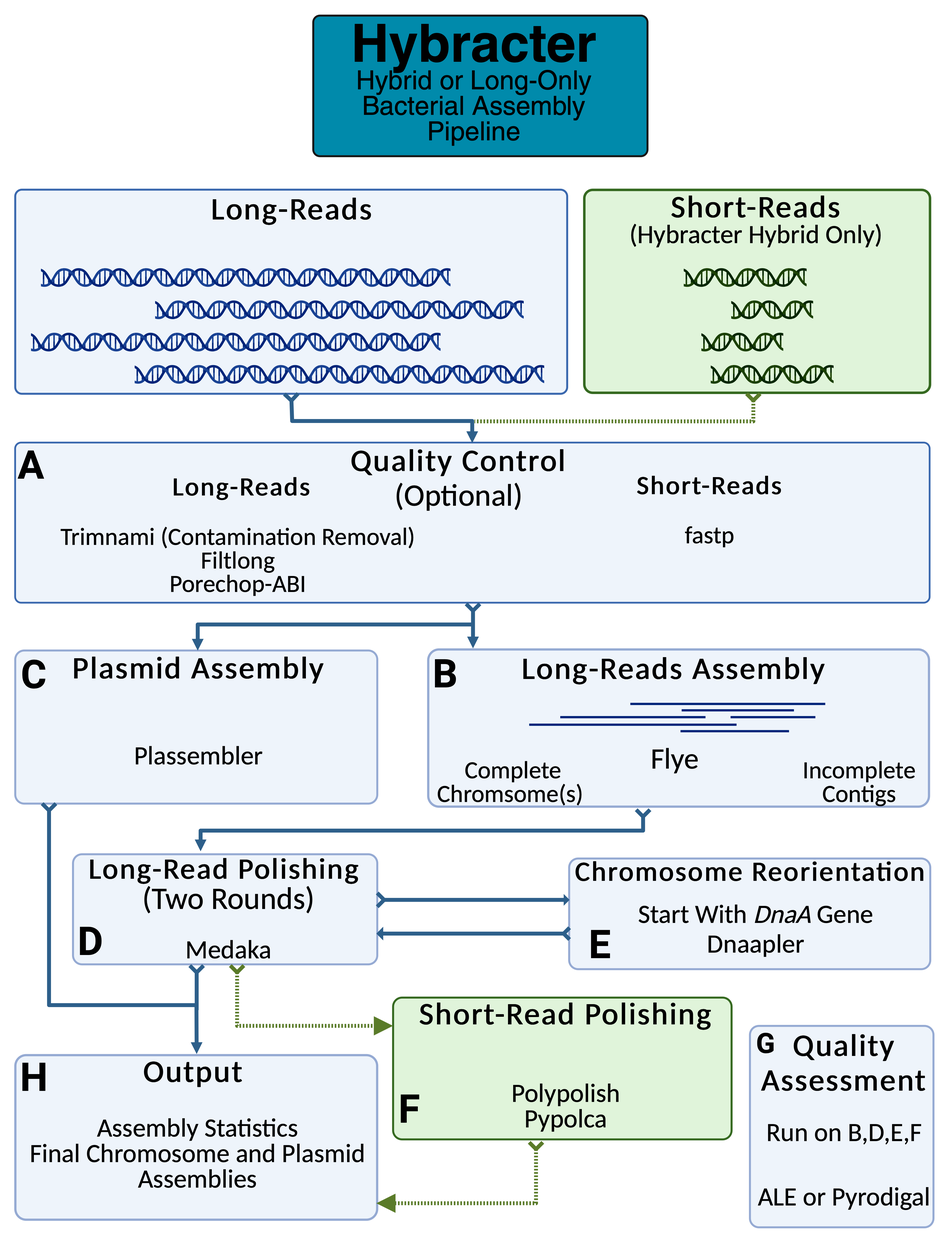
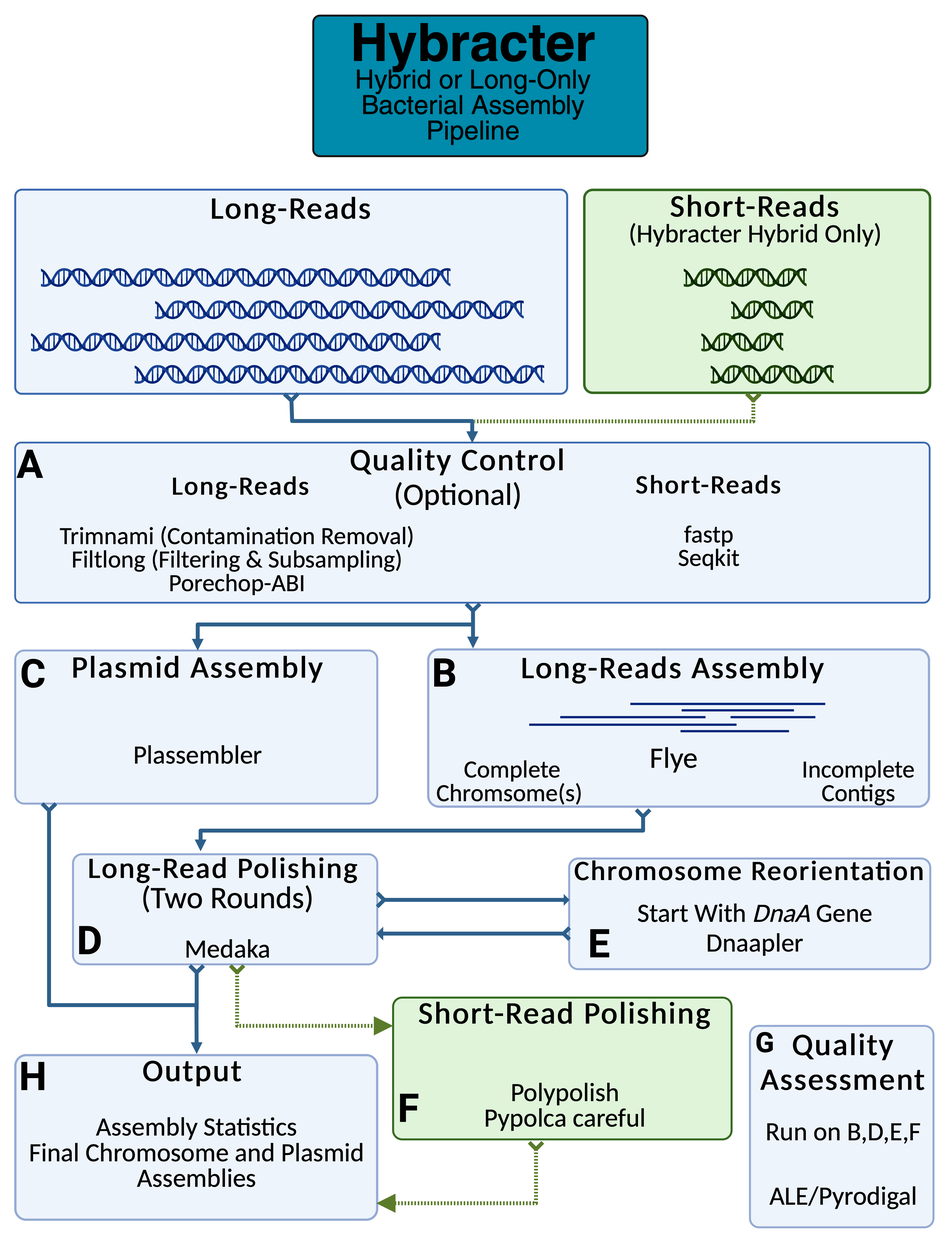
update docs [skip ci]

diff --git a/docs/benchmarking.md b/docs/benchmarking.md
@@ -2,9 +2,9 @@
 
 ## Summary of Main Results
 
-* `hybracter` assembled the most accurate chromosomes overall, particularly in terms of insertions and deletions (Dragonflye hybrid was second, Unicycler was the worst). For long reads only, `hybracter` was superior to dragonflye long.
-* `hybracter hybrid` was the best tool at recovering plasmids, recovering 57/59 possibly plasmids completely, while Unicycler recovered 54/59. Accuracy for both was similar. Dragonflye hybrid recovered only 34/59. 
-* `hybracter long` recovered 54/59 plasmids from only long read data, comparable to the hybrid methods. Dragonflye recovered only 35/59 plasmids. 
+* `hybracter hybrid` assembled the most accurate chromosomes overall, particularly in terms of insertions and deletions (Dragonflye hybrid was second, Unicycler was the worst). For long reads only, `hybracter long` was superior to dragonflye long.
+* `hybracter hybrid` was the best tool at recovering plasmids, recovering 65/69 possibly plasmids completely, while Unicycler recovered 60/69. Accuracy for both was similar. Dragonflye hybrid recovered only 44/69. 
+* `hybracter long` recovered 60/69 plasmids from only long read data, comparable to the hybrid methods. Dragonflye recovered only 44/69 plasmids. 
 
 ## Recommendations
 
@@ -18,44 +18,45 @@
 
 For the full details on how `hybracter` was benchmarked, please see the [repository](https://github.com/gbouras13/hybracter_benchmarking). You can find all the benchmarking output and FASTQ files used [here](https://doi.org/10.5281/zenodo.10158013).
 
-`Hybracter` was benchmarked in both hybrid and long modes (specifically using the `hybrid-single` and `long-single` commands) against [Unicycler](https://github.com/rrwick/Unicycler) v0.5.0 and [Dragonflye](https://github.com/rpetit3/dragonflye) v1.1.2.
+`Hybracter` v0.7.0 was benchmarked in both hybrid and long modes (specifically using the `hybrid-single` and `long-single` commands) against [Unicycler](https://github.com/rrwick/Unicycler) v0.5.0 and [Dragonflye](https://github.com/rpetit3/dragonflye) v1.1.2.
 
 For Dragonflye, both 'long' (default assembly with Flye, default polishing with Racon) and 'hybrid' (default assembly with Flye, default polishing with Racon followed by Polypolish ) were tested.
 
-`Hybracter` was benchmarked on a panel of 20 isolates form 4 studies with accompanying reference genomes.
+`Hybracter` was benchmarked on a panel of 30 isolates from 5 studies with accompanying reference genomes.
 
-These samples contain varying levels of long-read quality (reflecting improvements in Oxford Nanopore Technologies long read technology), with the median Q score of long read sets ranging from a minimum of 12.3 to maximum of 18.3. The four studies are:
+These samples contain varying levels of long-read quality (reflecting improvements in Oxford Nanopore Technologies long read technology), with the median Q score of long read sets ranging from a minimum of 10.6 to maximum of 26.8. The four studies are:
 
-1.	Five ATCC strain isolates (ATCC-10708 Salmonella enterica, ATCC-17802 Vibrio paragaemolyticus, ATCC-25922 Escherichia coli, ATCC-33560 Campylobacter jejuni and ATCC-BAA-679 Listeria monocytogenes ) sequenced by Louise Judd from Ryan Wick's [blogpost](https://rrwick.github.io/2023/05/05/ont-only-accuracy-with-r10.4.1.html).
-2.	Twelve diverse carbapenemase-producing Gram negative bacteria from [Lerminiaux et al](https://www.biorxiv.org/content/10.1101/2023.09.25.559359v1 ).
-3.	Staphylococcus aureus JKD6159 with both R9 and R10 chemistry long read sets from [Wick et al](https://doi.org/10.1128/mra.01129-22).
-4.	Mycobacterium tuberculosis HR37v from [Chitale et al](https://www.nature.com/articles/s41467-022-34853-x).
+1.	Five ATCC strain isolates (ATCC-10708 _Salmonella enterica_, ATCC-17802 _Vibrio paragaemolyticus_, ATCC-25922 _Escherichia coli_, ATCC-33560 _Campylobacter jejuni_ and ATCC-BAA-679 _Listeria monocytogenes_ ) with R10 chemistry super-accuracy model basecalled simplex long-reads sequenced by Louise Judd from Ryan Wick's [blogpost](https://rrwick.github.io/2023/05/05/ont-only-accuracy-with-r10.4.1.html) and made available as a part of the Hybracter preprint.
+2.	The same 5 ATCC isolates with R10 chemistry fast model basecalled long-reads, and R10 chemistry super-accuracy model basecalled duplex long-reads from [Hall et al](https://www.biorxiv.org/content/10.1101/2024.03.15.585313v2).
+3.	Twelve diverse carbapenemase-producing Gram negative bacteria from [Lerminiaux et al](https://doi.org/10.1139/cjm-2023-0175).
+4.	Staphylococcus aureus JKD6159 with both R9 and R10 chemistry long read sets from [Wick et al](https://doi.org/10.1128/mra.01129-22).
+5.	Mycobacterium tuberculosis HR37v from [Chitale et al](https://www.nature.com/articles/s41467-022-34853-x).
 
 ## Wallclock Time Results
 
-To compare the performance of Hybracter, we compared wall-clock runtime consumption on a machine with an Intel® Core™ i7-10700K CPU @ 3.80 GHz on a machine running Ubuntu 20.04.6 LTS with a total of 16 available threads (8 cores). We ran all tools with 8 and 16 threads to reflect performance and runtimes that are comparable to commonly available consumer hardware, with a cap at 32GB of RAM requested for each job. Hybracter hybrid and long were run with ‘hybracter hybrid-single’ and ‘hybracter long-single’ for each isolate in order to generate a comparable per sample runtime for comparison with the other tools. 
+To compare the performance of Hybracter, we compared wall-clock runtime consumption on a machine with an Intel® Core™ i9-13900K CPU @ 5.60 GHz on a machine running Ubuntu 20.04.6 LTS with a total of 32 available threads (24 cores). We ran all tools with 8 and 16 threads to reflect performance and runtimes that are comparable to commonly available consumer hardware, with a cap at 32GB of RAM requested for each job. Hybracter hybrid and long were run with ‘hybracter hybrid-single’ and ‘hybracter long-single’ for each isolate in order to generate a comparable per sample runtime for comparison with the other tools. 
 
 | **Tool**              | **Type** | **8 Threads**                                                           | **16 Threads**                                                          |
 | --------------------- | -------- | ----------------------------------------------------------------------- | ----------------------------------------------------------------------- |
-| **Hybracter hybrid**  | Hybrid   | Median = 00h:54m:23s Min = 00h:14m:22s Max = 02h:01m:37s | Median = 00h:40m:19s Min = 00h:12m:43s Max = 01h:21m:05s      |
-| **Dragonflye hybrid** | Hybrid   | Median = 00h:10m:55s Min = 00h:04m:02s Max = 00h:13m:34s      | Median = 00h:07m:21s Min = 00h:03m:33s Max = 00h:09m:28s      |
-| **Unicycler**         | Hybrid   | Median = 02h:03m:02s Min =  00h:39m:09s Max = 02h:48m:16s     | Median = 01h:06m:8s Min = 00h:21m:38s Max = 01h:30m:38s       |
-| **Hybracter long**    | Long     | Median = 00h:45m:29s Min = 00h:10m:52s Max = 01h:23m:49s | Median = 00h:34m:56s Min = 00h:09m:49s Max = 00h:59m:21s |
-| **Dragonflye long**   | Long     | Median = 00h:09m:24s Min = 00h:03m:52s Max = 00h:13m:32s      | Median = 00h:07m:00s Min = 00h:03m:22s Max = 00h:08m:56s |
+| **Hybracter hybrid**  | Hybrid   | Median = 00h:15m:03s Min = 00h:04m:29s Max = 00h:54m:41s | Median = 00h:13m:44s Min = 00h:03m:27s Max = 00h:44m:36s      |
+| **Dragonflye hybrid** | Hybrid   | Median = 00h:04m:34s Min = 00h:01m:32s Max = 00h:07m:27s      | Median = 00h:03m:46s Min = 00h:01m:22s Max = 00h:06m:01s      |
+| **Unicycler**         | Hybrid   | Median = 00h:50m:25s Min =  00h:12m:04s Max = 01h:13m:32s     | Median = 00h:34m:20s Min = 00h:08m:36s Max = 00h:48m:23s       |
+| **Hybracter long**    | Long     | Median = 00h:11m:46s Min = 00h:03m:26s Max = 00h:36m:09s | Median = 00h:10m:20s Min = 00h:03m:17s Max = 00h:29m:50s |
+| **Dragonflye long**   | Long     | Median = 00h:04m:10s Min = 00h:01m:22s Max = 00h:06m:01s      | Median = 00h:04m:34s Min = 00h:01m:32s Max = 00h:07m:27s |
 
 ## Chromosome Accuracy Results
 
-The chromosome assemblies for all samples were complete and circularised, and were compared against the reference with [Dnadiff](https://github.com/marbl/MUMmer3/blob/master/docs/dnadiff.README) v1.3. Small (<60bp) insertions and deletions (indels), small nucleotide variants (SNVs) and large (>60bps) were compared. SNVs and small indels were normalised per 100kbp of reference sequence.
+The chromosome assemblies for all samples were complete and circularised, and were compared against the reference with [Dnadiff](https://github.com/marbl/MUMmer3/blob/master/docs/dnadiff.README) v1.3. Small (<60bp) insertions and deletions (indels), small nucleotide variants (SNVs) and large (>60bps) were compared. 
 
 The summary results are presented below:
 
-| **Tool**              | **Type** | **Small Indels per 100kbp**                         | **SNVs per 100kbp**                                 | **Small Indels + SNVs per 100kbp**               | **Large Indels**                                           |
+| **Tool**              | **Type** | **Small Indels**                         | **SNVs**                                 | **Small Indels + SNVs**               | **Large Indels**                                           |
 | --------------------- | -------- | --------------------------------------------------- | --------------------------------------------------- | ------------------------------------------------ | ---------------------------------------------------------- |
-| **Hybracter hybrid**  | Hybrid   | Median = 0.05 Min = 0 Max = 12.34    | Median = 0.16 Min = 0 Max = 3.52        | Median = 0.24 Min = 0 Max = 15.79 | Total = 59 Median = 0 Min = 0 Max = 26 |
-| **Dragonflye hybrid** | Hybrid   | Median = 0.49 Min = 0 Max = 11.56   | Median = 0.03  Min = 0  Max = 2.21    | Median = 0.74  Min = 0  Max = 13.41     | Total = 91 Median = 1.5 Min = 1  Max = 29      |
-| **Unicycler**         | Hybrid   | Median = 0.28 Min = 0  Max = 9.5      | Median = 1.25 Min = 0.25 Max = 4.13       | Median = 1.49 Min = 0.43 Max = 13.62   | Total = 134 Median = 2.5  Min = 0  Max = 41     |
-| **Hybracter long**    | Long     | Median = 0.49 Min = 0.06 Max = 24.82 | Median = 1.07 Min = 0.07 Max = 10.46 | Median = 2.08 Min = 0.37 Max = 35.29   | Total = 66 Median = 1  Min = 0  Max = 27        |
-| **Dragonflye long**   | Long     | Median = 3.01 Min = 1.61 Max = 43.8       | Median = 0.99 Min = 0.33 Max = 10.86 | Median = 3.81 Min = 2.01 Max = 53.1    | Total = 92 Median = 2 Min = 1 Max = 30    |
+| **Hybracter hybrid**  | Hybrid   | Median = 0 Min = 0 Max = 41    | Median = 0 Min = 0 Max = 26        | Median = 1 Min = 0 Max = 67 | Total = 9 Median = 0 Min = 0 Max = 2 |
+| **Dragonflye hybrid** | Hybrid   | Median = 2.5 Min = 0 Max = 112   | Median = 0 Min = 0  Max = 64    | Median = 4.5  Min = 0  Max = 154     | Total = 70 Median = 2 Min = 0  Max = 12      |
+| **Unicycler**         | Hybrid   | Median = 11 Min = 0  Max = 125      | Median = 34 Min = 0 Max = 165       | Median = 57.5 Min = 3 Max = 290   | Total = 87 Median = 1  Min = 0  Max = 16     |
+| **Hybracter long**    | Long     | Median = 16 Min = 1 Max = 743 | Median = 21.5 Min = 0 Max = 156 | Median = 54 Min = 1 Max = 852   | Total = 11 Median = 1  Min = 0  Max = 3        |
+| **Dragonflye long**   | Long     | Median = 125 Min = 2 Max = 4814       | Median = 34.5 Min = 0 Max = 2172 | Median = 170.5 Min = 2 Max = 6332    | Total = 68 Median = 2 Min = 0 Max = 12    |
 
 
 ## Plasmid Recovery Results
@@ -71,11 +72,11 @@ The summary results are presented below:
 
 | **Tool**              | **Complete Plasmids Recovered** | **Total Plasmids Partially Recovered or Misassembled** | **Total Plasmids Missed** | **Additional Plasmids Recovered not in Reference** | **Additional Non-Plasmid Contigs Recovered** |
 | --------------------- | ------------------------------- | ------------------------------------------------------ | ------------------------- | -------------------------------------------------- | -------------------------------------------- |
-| **Hybracter hybrid**  | 57                              | 2                                                      | 0                         | 2                                                  | 6                                            |
-| **Unicycler**         | 54                              | 2                                                      | 3                         | 1                                                  | 1                                            |
-| **Dragonflye hybrid** | 34                              | 16                                                     | 9                         | 1                                                  | 7                                            |
-| **Hybracter long**    | 54                              | 3                                                      | 2                         | 2                                                  | 3                                            |
-| **Dragonflye long**   | 35                              | 16                                                     | 8                         | 1                                                  | 5                                            |
+| **Hybracter hybrid**  | 65                              | 4                                                      | 0                         | 2                                                  | 10                                            |
+| **Unicycler**         | 60                              | 6                                                      | 3                         | 1                                                  | 2                                            |
+| **Dragonflye hybrid** | 44                              | 16                                                     | 9                         | 1                                                  | 10                                            |
+| **Hybracter long**    | 60                              | 5                                                      | 4                         | 2                                                  | 3                                            |
+| **Dragonflye long**   | 44                              | 16                                                     | 9                         | 1                                                  | 10                                            |
 
 ## Plasmid Accuracy Results
 
@@ -83,8 +84,8 @@ The plasmids assemblies for all samples were complete and circularised, and were
 
 | Tool              | Type   | Min SNVs per 100kbp | Median SNVs per 100kbp | Max SNVs per 100kbp | Min Small Indels per 100kbp | Median Small Indels per 100kbp | Max Small Indels per 100kbp | Min SNVs + Small Indels per 100kbp | Median SNVs + Small Indels per 100kbp | Max SNVs + Small Indels per 100kbp | Min  Large Indels | Median  Large Indels | Max  Large Indels | Total Large Indels |
 | ----------------- | ------ | ----------------------- | ---------------------- | ----------------------- | ------------------------------- | ------------------------------ | ------------------------------- | -------------------------------------- | ------------------------------------- | -------------------------------------- | --------------------- | -------------------- | --------------------- | ------------------ |
-| dragonflye_hybrid | hybrid | 0                       | 0                      | 9                       | 0                               | 0                              | 21.82                           | 0                                      | 0                                     | 21.82                                  | 1                     | 7.5                  | 16                    | 129                |
-| dragonflye_long   | long   | 0                       | 1.38                   | 12.86                   | 1.3                             | 7.65                           | 33.77                           | 2.6                                    | 9.215                                 | 33.77                                  | 2                     | 6.5                  | 16                    | 123                |
-| hybracter_hybrid  | hybrid | 0                       | 3.1                    | 46.19                   | 0                               | 0                              | 30.25                           | 0                                      | 4.15                                  | 47.34                                  | 0                     | 2                    | 9                     | 39                 |
-| hybracter_long    | long   | 0                       | 4.635                  | 58.08                   | 0                               | 2.22                           | 125.42                          | 0                                      | 10.635                                | 130.25                                 | 0                     | 2                    | 7                     | 32                 |
-| unicycler         | hybrid | 0                       | 2.405                  | 10.99                   | 0                               | 0                              | 3.45                            | 0                                      | 3.83                                  | 11.28                                  | 0                     | 2                    | 16                    | 51                 |
+| dragonflye_hybrid | hybrid | 0                       | 0                      | 0.7                       | 0                               | 0                              | 31.75                           | 0                                      | 0.255                                     | 31.75                                  | 1                     | 5.5                  | 18                    | 116                |
+| dragonflye_long   | long   | 0                       | 1.285                   | 55.29                   | 0                             | 6.255                           | 129.07                           | 0                                    | 7.655                                 | 167.17                                  | 1                     | 5.5                  | 18                    | 116                |
+| hybracter_hybrid  | hybrid | 0                       | 0.255                    | 46.19                   | 0                               | 0                              | 16.19                           | 0                                      | 1.62                                  | 47.34                                  | 0                     | 2                    | 9                     | 44                 |
+| hybracter_long    | long   | 0                       | 4.47                  | 57.87                   | 0                               | 2.995                           | 189.57                          | 0                                      | 8.735                                | 227.89                                 | 0                     | 1                    | 27                     | 59                 |
+| unicycler         | hybrid | 0                       | 0.855                  | 10.99                   | 0                               | 0                              | 3.45                            | 0                                      | 2.02                                  | 11.28                                  | 0                     | 2                    | 16                    | 63                 |

diff --git a/docs/output.md b/docs/output.md
@@ -1,0 +1,137 @@
+`hybracter` creates a number of output files in different formats.
+
+# Main Output
+
+The main outputs are in the `FINAL_OUTPUT` directory.
+
+This directory will include:
+
+## Summary File
+
+1. `hybracter_summary.tsv` file. This gives the summary statistics for your assemblies with the following columns:
+
+|Sample |Complete (True or False) | Total_assembly_length |	Number_of_contigs |	Most_accurate_polishing_round |	Longest_contig_length | Longest_contig_coverage|	Number_circular_plasmids |
+|--------|-----------------------|-------------------------|-------------------|--------|--|--|--|
+
+
+## Summary Assemblies
+
+2. The `complete` and `incomplete` directories will contain the summary assemblies for all samples.
+
+All samples that are denoted by hybracter to be complete will have 5 outputs in the `complete` directory:
+
+   * `sample`_summary.tsv containing the summary statistics for that sample.
+   * `sample`_per_contig_stats.tsv containing the contig names, lengths, GC% and whether the contig is circular.
+   * `sample`_final.fasta containing the final assembly for that sample.
+   * `sample`_chromosome.fasta containing only the final chromosome(s) assembly for that sample.
+   * `sample`_plasmid.fasta containing only the final plasmid(s) assembly for that sample. Note this may be empty. If this is empty, then that sample had no plasmids. 
+       * **Note** - there may be a number of non-circular "plasmid" contigs. Be careful assuming these are truly plasmids and check the plassmbler output in `supplementary_results`. These may be assembly artefacts that should be excluded, or indicate that your long- and short-read sets aren't well matched!
+
+All samples that are denoted by hybracter to be incomplete will have 3 outputs in the `incomplete` directory:
+
+   * `sample`_summary.tsv containing the summary statistics for that sample.
+   * `sample`_per_contig_stats.tsv containing the contig names, lengths, GC% and whether the contig is circular.
+   * `sample`_final.fasta containing the final assembly for that sample.
+
+# Other Outputs
+
+## `supplementary_results` directory
+
+The `supplementary_results` directory contains a number of supplementary results that you might find useful:
+
+##### 1. `comparisons` directory
+
+* This directory contains visual representations comparing the effect of each polishing round for each sample using a modified version of Ryan Wick's [compare_assemblies.py script](https://github.com/rrwick/Perfect-bacterial-genome-tutorial/blob/main/scripts/compare_assemblies.py). An example is below 
+
+```
+    contig_1 37368-37398: ACCATTTTTGTTTTATTTTTTGTAAAGACAC
+    contig_1 37368-37397: ACCATTTTTGTTTTA-TTTTTGTAAAGACAC
+                                         *              
+
+    contig_1 43247-43277: CAACGTTGTTTTCCCTGAGCCTAAATAACCA
+    contig_1 43246-43276: CAACGTTGTTTTCCCCGAGCCTAAATAACCA
+                                         *              
+
+    contig_1 44658-44688: CTTGATCTTTATCTATGATTTCATTAATACT
+    contig_1 44657-44687: CTTGATCTTTATCTACGATTTCATTAATACT
+                                         *              
+```
+
+* If this file is empty, there are no differences between assemblies
+
+##### 2. `intermediate_chromosome_assemblies` directory
+
+* This directory contains intermediate chromosome assemblies for all polishing rounds for each sample.
+
+##### 3. `flye_individual_summaries` directory
+
+* This directory contains individual sample summaries from Flye for all samples.
+
+##### 4. `plassembler_individual_summaries` directory
+
+* This directory contains individual sample summaries from Plassembler for each sample.
+
+##### 5. `plassembler_all_assembly_summary` directory
+
+* This directory contains individual sample summaries from Plassembler for all samples.
+
+##### 6. `pyrodigal_mean_length_summaries` directory
+
+*  For `long`, this directory contains pyrodigal mean CDS length summary files for each polishing round for each sample.
+
+##### 7. `pyrodigal_mean_length_summaries_plassembler` directory
+
+*  For `long`, this directory contains pyrodigal mean CDS length summary files for each polishing round for each sample for the plassembler assembled plasmids.
+
+## `processing` directory
+
+The `processing` directory will contain a number of intermediate directories whose information you might find useful:
+
+##### 1. `flye` directory
+
+* This directory will contain the Flye assembly output and associated intermediate files for each sample
+
+##### 2. `qc` directory
+
+ This directory will contain the filtered, trimmed and contaminant removed FASTQ reads (where applicable) for each sample
+
+##### 3. `plassembler` directory
+
+* This directory will contain the Plassembler assembly output and associated intermediate files for each sample
+
+##### 4. `chrom_pre_polish` directory
+
+  * This directory will contain the pre-polished chromosome assemblies for complete isolates
+
+##### 5. `complete` and `incomplete` directories
+
+  * These directories will contain the medaka, polypolish and pypolca polishing and dnaapler reorientation intermediate files for each sample
+
+##### 6. `ale_out_files` directory
+
+  * For `hybrid`, this directory will intermediate ALE files for each assembly polishing round internal to `hybracter` (so can be ignored).
+
+##### 7. `ale_scores_complete` and `ale_scores_incomplete`  directories
+
+  *  These directories will containin ALE scores for each assembly polishing round.
+
+## `stderr` directory
+
+* This will contain log files for each program in `hybracter`.
+
+## `versions` directory
+
+* This will contain the specific versions used for each program in `hybracter`.
+
+## `flags` directory
+
+* This will contain flag files internal to `hybracter` (so can be ignored).
+
+## `completeness` directory
+
+* This will contain flag files internal to determine completeness internal to `hybracter` (so can be ignored).
+
+## `benchmarks` directory
+
+* This will contain benchmarking time and memory usage statistics for each program in hybracter.
+

diff --git a/docs/index.md b/docs/index.md
@@ -13,12 +13,12 @@ It scales massively using the embarassingly parallel power of HPC and Snakemake 
 
 ![Image](hybracter.png)
 
-- A. Reads are quality controlled with [Filtlong](https://github.com/rrwick/Filtlong), [Porechop](https://github.com/rrwick/Porechop), [fastp](https://github.com/OpenGene/fastp) and optionally contaminant removal using modules from [trimnami](https://github.com/beardymcjohnface/Trimnami).
+- A. Reads are quality controlled and subsampled with [Filtlong](https://github.com/rrwick/Filtlong), [Porechop](https://github.com/rrwick/Porechop), [fastp](https://github.com/OpenGene/fastp), [Seqkit](https://github.com/shenwei356/seqkit) and optionally contaminant removal using modules from [trimnami](https://github.com/beardymcjohnface/Trimnami).
 - B. Long-read assembly is conducted with [Flye](https://github.com/fenderglass/Flye). Each sample is clssified if the chromosome(s) were assembled (marked as 'complete') or not (marked as 'incomplete') based on the given minimum chromosome length.
 - C. For complete isolates, plasmid recovery with [Plassembler](https://github.com/gbouras13/plassembler).
 - D. For all isolates, long read polishing with [Medaka](https://github.com/nanoporetech/medaka).
-- E. For complete isolates, the chromosome is reorientated to begin with the dnaA gene with [dnaapler](https://github.com/gbouras13/dnaapler).
-- F. For all isolates, if short reads are provided, short read polishing with [Polypolish](https://github.com/rrwick/Polypolish) and [pypolca](https://github.com/gbouras13/pypolca).
+- E. For complete isolates, circularised chromosome(s) are reorientated to begin with the dnaA gene with [dnaapler](https://github.com/gbouras13/dnaapler).
+- F. For all isolates, if short reads are provided, short-read polishing with [Polypolish](https://github.com/rrwick/Polypolish) and [Pypolca](https://github.com/gbouras13/pypolca) depending on [short-read depth](https://www.biorxiv.org/content/10.1101/2024.03.07.584013v1).
 - G. For all isolates, assessment of all assemblies with [ALE](https://github.com/sc932/ALE) for `hybracter hybrid` or [Pyrodigal](https://github.com/althonos/pyrodigal) for `hybracter long`.
-- H. The best assembly is selected and and output along with final assembly statistics.
+- H. The best assembly is selected (the last is taken for `hybracter hybrid`) and output along with final assembly statistics.
 

diff --git a/docs/run.md b/docs/run.md
@@ -34,9 +34,10 @@ hybracter hybrid -i <input.csv> -o <output_dir> -t <threads>  [other arguments]
 * `--skip_qc` will skip all read QC steps.
 * You can change the `--medakaModel` (all available options are listed in `hybracter hybrid -h`)
 * You can change the `--flyeModel` (all available options are listed in `hybracter hybrid -h`)
-* You can turn off Medaka polishing using `--no_medaka`
-* You can turn off pypolca polishing using `--no_pypolca`
-* By default, `hybracter hybrid` takes the last polishing round as the final assembly  (`--logic last`). We would recommend never changing this, as picking the best polishing round according to ALE with  `--logic best` is not guaranteed to give the most accurate assembly.
+* You can turn off Medaka polishing using `--no_medaka` - recommended for Q20+ modern Nanopore reads
+* You can turn off pypolca polishing using `--no_pypolca` - I wouldn't though!
+* You can change the `--depth_filter` from 0.25x chromosome coverage. This will filter out all Plassembler contigs below this depth.
+* By default, `hybracter hybrid` takes the last polishing round as the final assembly  (`--logic last`). We would not recommend changing this to `--logic best`, as picking the best polishing round according to ALE with  `--logic best` is not guaranteed to give the most accurate assembly (See our [preprint](https://www.biorxiv.org/content/10.1101/2024.03.07.584013v1)).
 
 ```bash
 
@@ -201,8 +202,11 @@ hybracter long -i <input.csv> -o <output_dir> -t <threads> [other arguments]
 * `--skip_qc` will skip all read QC steps.
 * You can change the `--medakaModel` (all available options are listed in `hybracter long -h`)
 * You can change the `--flyeModel` (all available options are listed in `hybracter long -h`)
-* You can turn off Medaka polishing using `--no_medaka`
+* You can turn off Medaka polishing using `--no_medaka` - recommended for Q20+ modern Nanopore and PacBio reads
+* You can change the `--depth_filter` from 0.25x chromosome coverage. This will filter out all Plassembler contigs below this depth.
 * You can force `hybracter long` to pick the last polishing round (not the best according to pyrodigal mean CDS length) with `--logic last`. `hybracter long` defaults to picking the best i.e. `--logic best`.
+
+
 
 ```bash
 Usage: hybracter long [OPTIONS] [SNAKE_ARGS]...

diff --git a/README.md b/README.md
@@ -17,6 +17,8 @@
 - [Hybracter: Enabling Scalable, Automated, Complete and Accurate Bacterial Genome Assemblies](#hybracter-enabling-scalable-automated-complete-and-accurate-bacterial-genome-assemblies)
   - [Table of Contents](#table-of-contents)
   - [Quick Start](#quick-start)
+    - [Mamba/Conda](#mambaconda)
+    - [Container](#container)
   - [Description](#description)
   - [Pipeline](#pipeline)
   - [Benchmarking](#benchmarking)
@@ -56,6 +58,8 @@
 
 ## Quick Start
 
+### Mamba/Conda
+
 `hybracter` is available to install with `pip` or `conda`.
 
 You will need conda or mamba available so `hybracter` can install all the required dependencies. 
@@ -78,6 +82,27 @@ If you intend to run hybracter offline (e.g. on HPC nodes with no access to the 
 ```
 hybracter test-hybrid --threads 8
 hybracter test-long --threads 8
+```
+
+### Container
+
+Alternatively, a Docker/Singularity Linux container image is available for Hybracter (starting from v0.7.1) [here](https://quay.io/repository/gbouras13/hybracter). This will likely be useful for running Hybracter in HPC environments.
+
+* **Note** the container image comes with the database and all environments installed - there is no need to run `hybracter install` or `hybracter test-hybrid`/`hybracter test-long` or to specify a database directory with `-d`.
+
+To install and run v0.7.1 with singularity
+
+```bash
+
+IMAGE_DIR="<the directory you want the .sif file to be in >"
+singularity pull --dir $IMAGE_DIR docker://quay.io/gbouras/hybracter:0.7.1
+
+containerImage="$IMAGE_DIR/hybracter_0.7.1.sif"
+
+# example command with test fastqs
+ singularity exec $containerImage    hybracter hybrid-single -l test_data/Fastqs/test_long_reads.fastq.gz \
+ -1 test_data/Fastqs/test_short_reads_R1.fastq.gz  -2 test_data/Fastqs/test_short_reads_R2.fastq.gz \
+ -o output_test_singularity -t 4 -c 50000
 ```
 
 ## Description

diff --git a/docs/install.md b/docs/install.md
@@ -41,6 +41,27 @@ pip install -e .
 hybracter --help
 ```
 
+## Docker/Singularity
+
+A Docker/Singularity Linux container image is available for Hybracter (starting from v0.7.1) [here](https://quay.io/repository/gbouras13/hybracter). This will likely be useful for running Hybracter in HPC environments.
+
+* **Note** the container image comes with the database and all environments installed - there is no need to run `hybracter install` or `hybracter test-hybrid`/`hybracter test-long` or to specify a database directory with `-d`.
+
+To install and run v0.7.1 with singularity
+
+```bash
+
+IMAGE_DIR="<the directory you want the .sif file to be in >"
+singularity pull --dir $IMAGE_DIR docker://quay.io/gbouras/hybracter:0.7.1
+
+containerImage="$IMAGE_DIR/hybracter_0.7.1.sif"
+
+# example command with test fastqs
+ singularity exec $containerImage    hybracter hybrid-single -l test_data/Fastqs/test_long_reads.fastq.gz \
+ -1 test_data/Fastqs/test_short_reads_R1.fastq.gz  -2 test_data/Fastqs/test_short_reads_R2.fastq.gz \
+ -o output_test_singularity -t 4 -c 50000
+```
+
 # Database Installation
 
 **Note: users (and CI) have reported errors where this does not work due to an MD5 file error. This is due to Zenodo having issues (where the database lives). Waiting a few minutes and trying again usuall works.**

diff --git a/docs/reasons.md b/docs/reasons.md
@@ -1,7 +1,8 @@
 Why Use  `hybracter`
 ---------
 1. If you want the best possible _automated_ long read only or hybrid bacterial isolate genome assembly.
-  * Benchmarking TBA, but I hope it is more accurate than Unicycler, much faster and just as easy to run. 
+  * Hybracter hybrid is more accurate than Unicycler, much faster and just as easy to run. 
+  * Hybracter long _solves_ the long-read only plasmid assembly problem and produces the most accurate automated chromosome assembly.
 2. If you need to assemble many (e.g. 10+) bacterial isolates as efficiently as possible.
   * I wrote it originally because I needed to assembly more than 200 long-read sequenced isolates.
 3. If you want all information about from assembly pipeline such as whether your polishing probably improved the genome, whether your assembly was likely complete, and how many plasmids you probably assembled.
